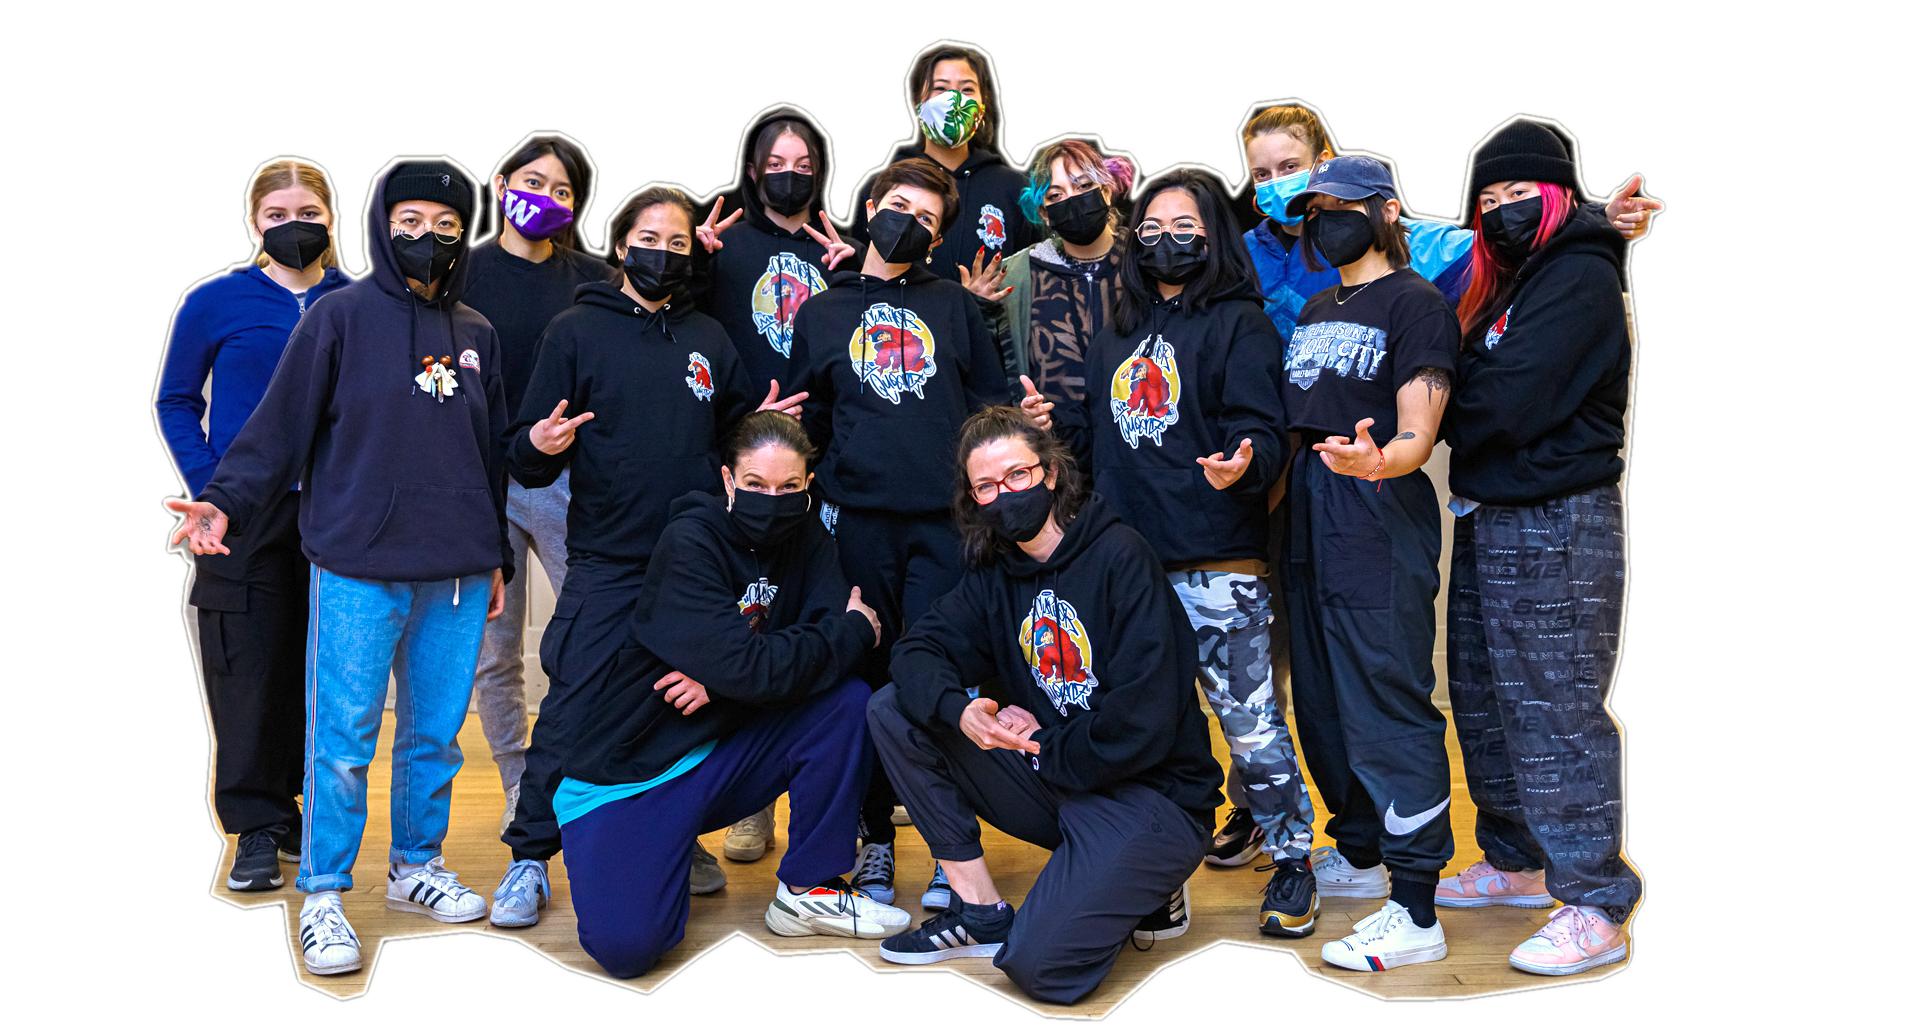
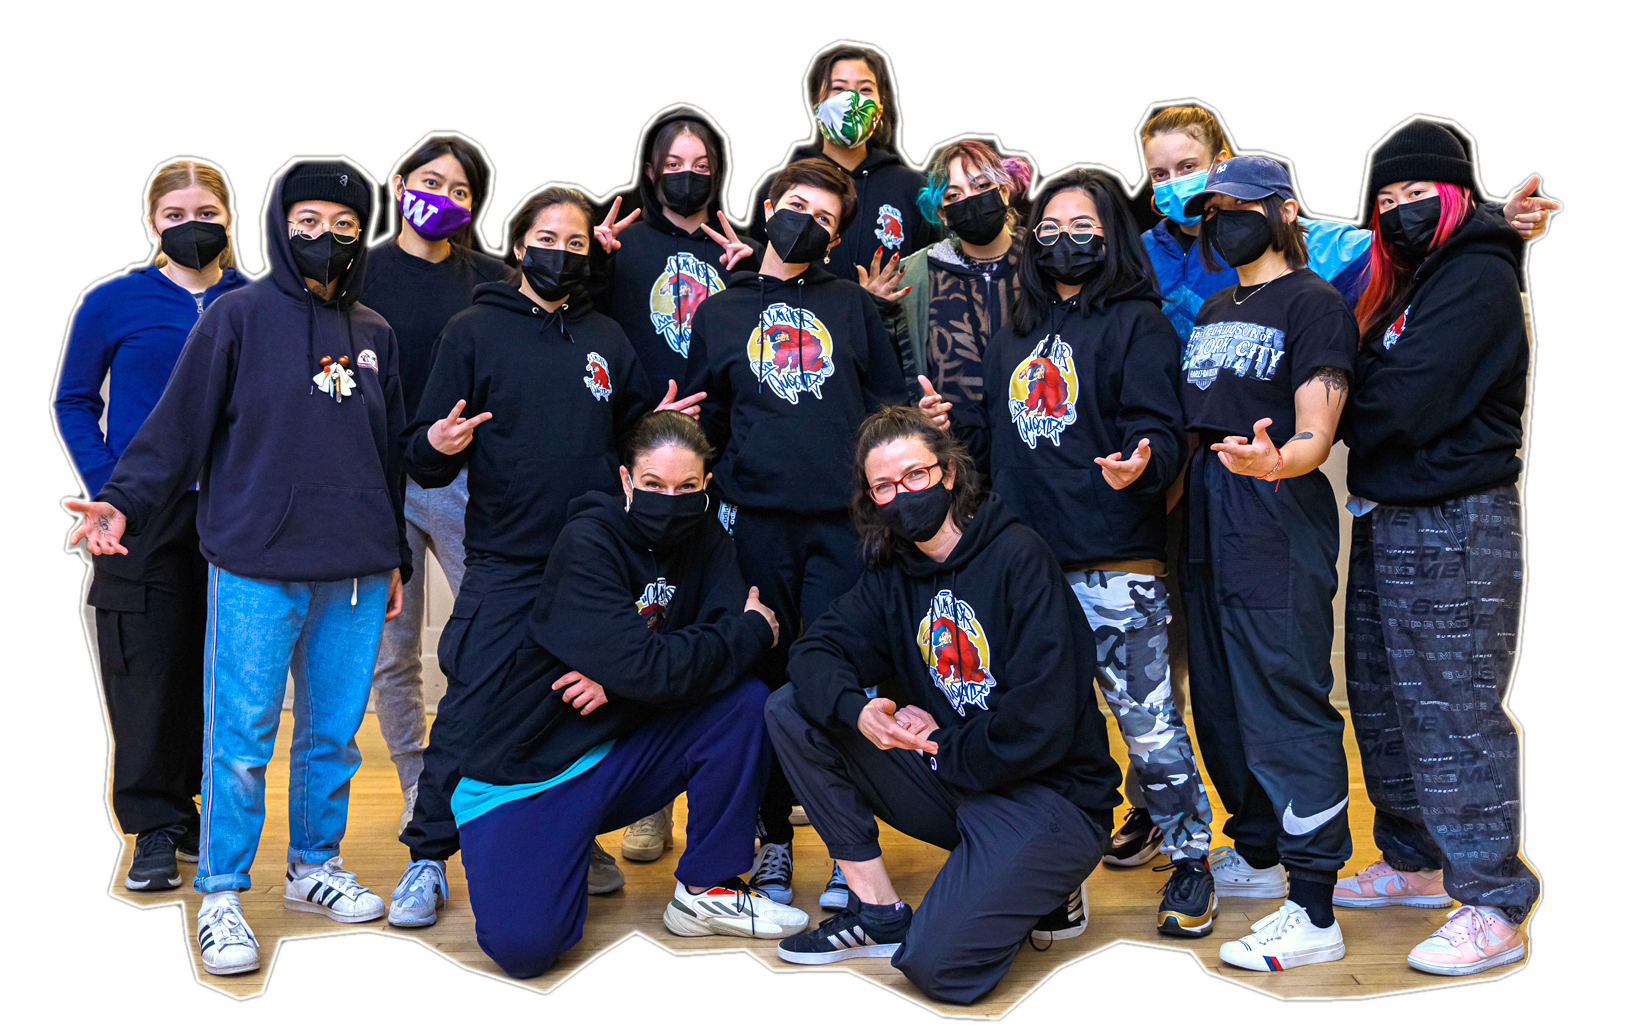
Adjusted image responsivity styling.

diff --git a/src/components/About/About.css b/src/components/About/About.css
@@ -34,6 +34,7 @@ p {
 }
 
 .cypher-queenz-about-pose {
-  min-width: 600px;
-  width: 75%;
+  max-width: 600px;
+  width: 100%;
+  margin: 15px 0;
 }
